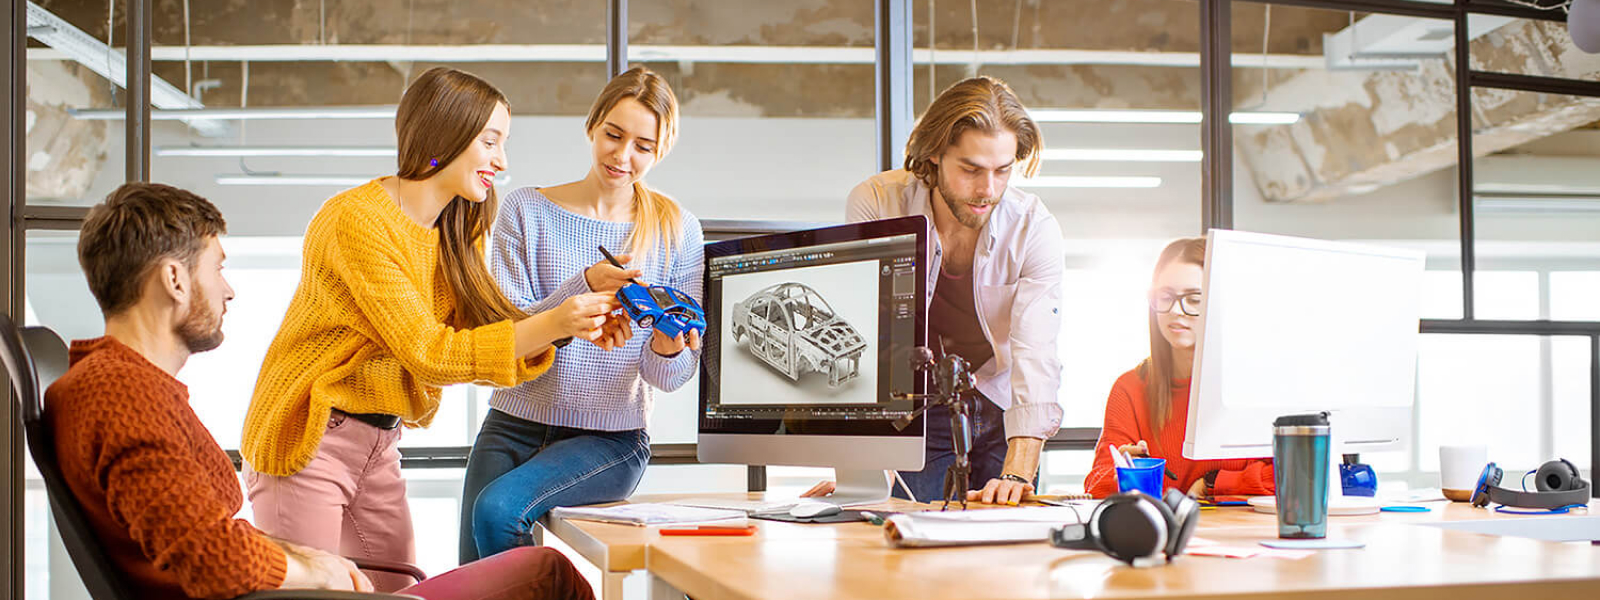
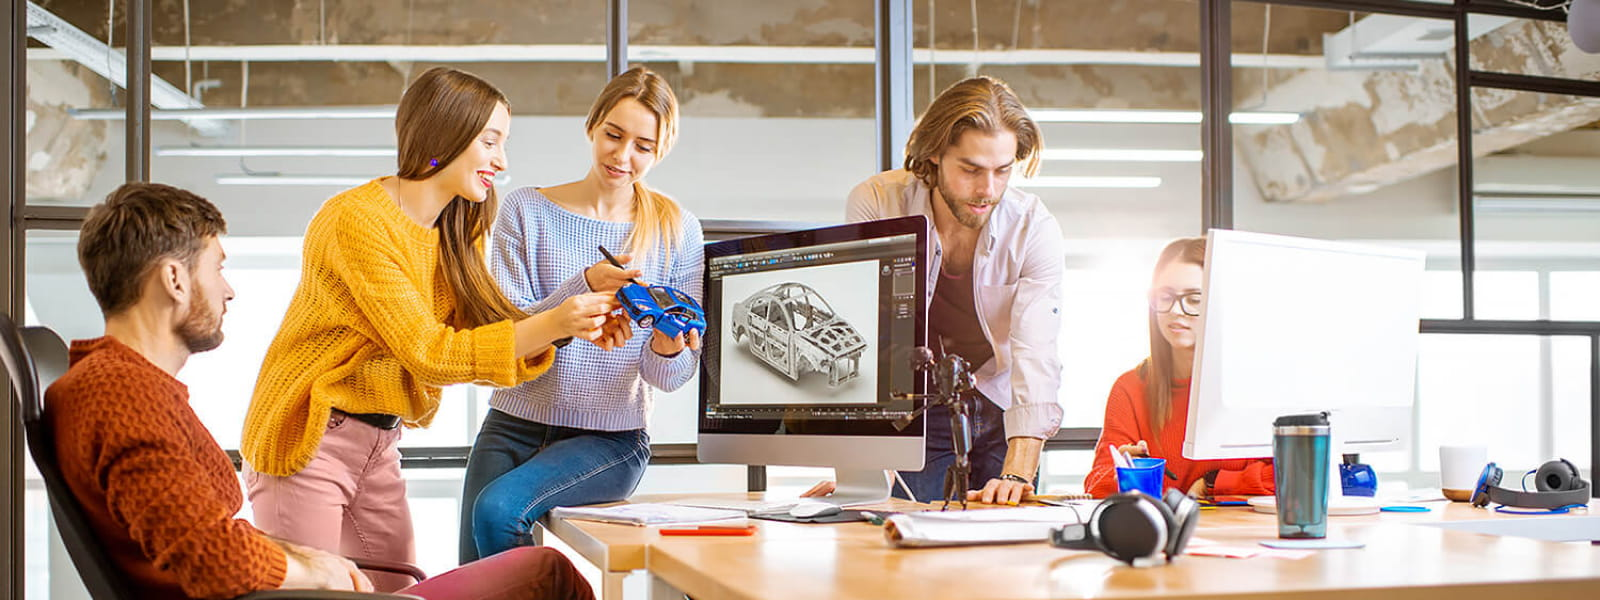
Мінімізував розміри зоображень

Changed region(s): [[0.375, 0.48, 0.4375, 0.57], [0.25, 0.48, 0.2812, 0.51], [0.2188, 0.33, 0.25, 0.36]]

diff --git a/index.html b/index.html
@@ -149,12 +149,24 @@
       <div class="container">
         <h2 class="h2-clients">Постоянные клиенты</h2>
         <ul>
-          <li>div</li>
-          <li></li>
-          <li></li>
-          <li></li>
-          <li></li>
-          <li></li>
+          <li>
+            <div><img src="" alt="" /></div>
+          </li>
+          <li>
+            <div><img src="" alt="" /></div>
+          </li>
+          <li>
+            <div><img src="" alt="" /></div>
+          </li>
+          <li>
+            <div><img src="" alt="" /></div>
+          </li>
+          <li>
+            <div><img src="" alt="" /></div>
+          </li>
+          <li>
+            <div><img src="" alt="" /></div>
+          </li>
         </ul>
       </div>
     </section>

diff --git a/CSS/styles.css b/CSS/styles.css
@@ -78,9 +78,9 @@ span {
 
 /* Style Hero */
 
-.hero {
+/* .hero {
   background: #2f303a;
-}
+} */
 
 .h1-hero {
   font-size: 44px;
@@ -417,4 +417,14 @@ span {
 .clients {
   padding-top: 94px;
   padding-bottom: 94px;
+}
+
+.hero {
+  background-image: linear-gradient(
+      rgba(47, 48, 58, 0.4),
+      rgba(47, 48, 58, 0.4)
+    ),
+    url("/IMG/hero/Header\ img.jpg");
+  background-repeat: no-repeat;
+  background-position: center;
 }
